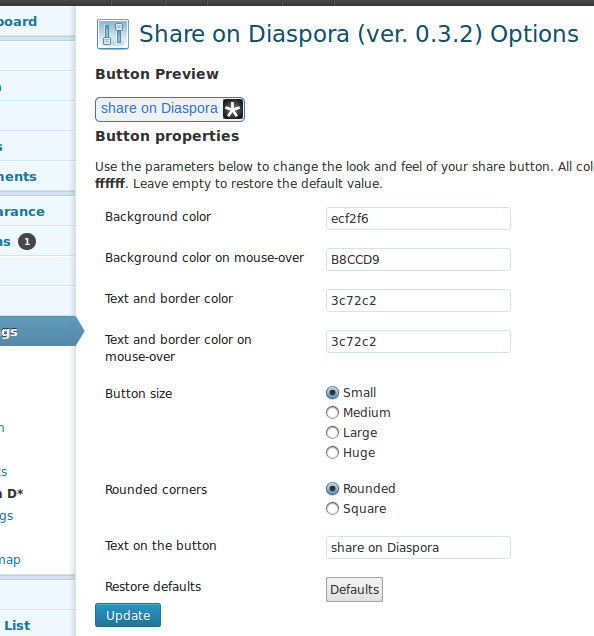
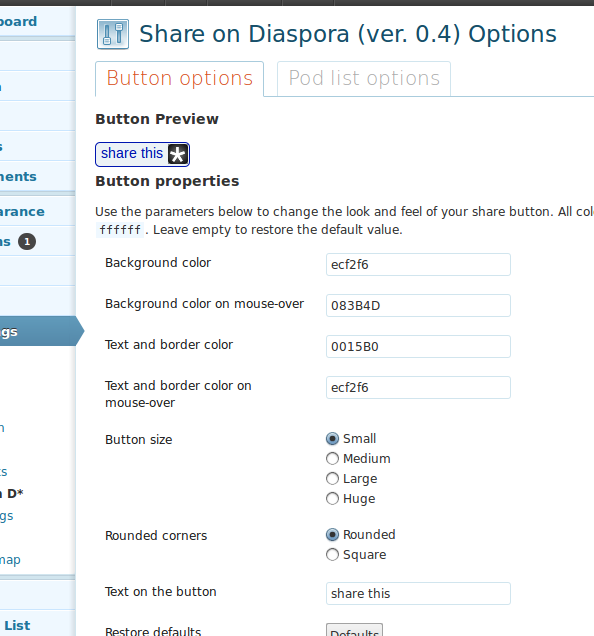
changed version to 0.4, added link to plugin page in new_window.php, added description etc in readme.txt, added options page screenshots

diff --git a/trunk/new_window.php b/trunk/new_window.php
@@ -254,6 +254,7 @@ foreach ($podlist as &$i)
 print '<option  value="' . $i .'"></option>';
 }
 ?>
-</datalist><br><input type=submit id=podurlsm value=Share></form></section><span class=clear></span><div class=bot_opt><input type=checkbox id=remember><label for=remember>Remember my choice, don't ask again</label></div><div class=advanced><a class=openao id=openao>Advanced options</a><div class=hideopt id=contopt><span class=opttit>Advanced options</span><br><input type=checkbox id=markdown><label for=markdown>Use Markdown syntax for link</label><br><input type=checkbox id=shorten><label for=shorten>Shorten URL (j.mp)</label><p><input type=checkbox id=norem><label for=norem>Never remember my last 3 pods</label><br><a class=delete id=delete>Forget my last 3 pods</a><br></p></div></div>
+</datalist><br><input type=submit id=podurlsm value=Share></form><hr>
+<small>by <a href="http://wordpress.org/plugins/share-on-diaspora/">Share on Diaspora</a> plugin for <a href="http://wordpress.org/">WordPress</a>.</small><hr><small>by <a href="http://wordpress.org/plugins/share-on-diaspora/">Share on Diaspora</a> plugin for <a href="http://wordpress.org/">WordPress</a>.</small></section><span class=clear></span><div class=bot_opt><input type=checkbox id=remember><label for=remember>Remember my choice, don't ask again</label></div><div class=advanced><a class=openao id=openao>Advanced options</a><div class=hideopt id=contopt><span class=opttit>Advanced options</span><br><input type=checkbox id=markdown><label for=markdown>Use Markdown syntax for link</label><br><input type=checkbox id=shorten><label for=shorten>Shorten URL (j.mp)</label><p><input type=checkbox id=norem><label for=norem>Never remember my last 3 pods</label><br><a class=delete id=delete>Forget my last 3 pods</a><br></p></div></div>
 </body>
 </html>

diff --git a/trunk/share-on-diaspora.php b/trunk/share-on-diaspora.php
@@ -3,7 +3,7 @@
 Plugin Name: Share on Diaspora
 Plugin URI:
 Description: This plugin adds a "Share on D*" button at the bottom of your posts.
-Version: 0.3.2
+Version: 0.4
 Author: Vitalie Ciubotaru
 Author URI: https://github.com/ciubotaru
 License: GPL2
